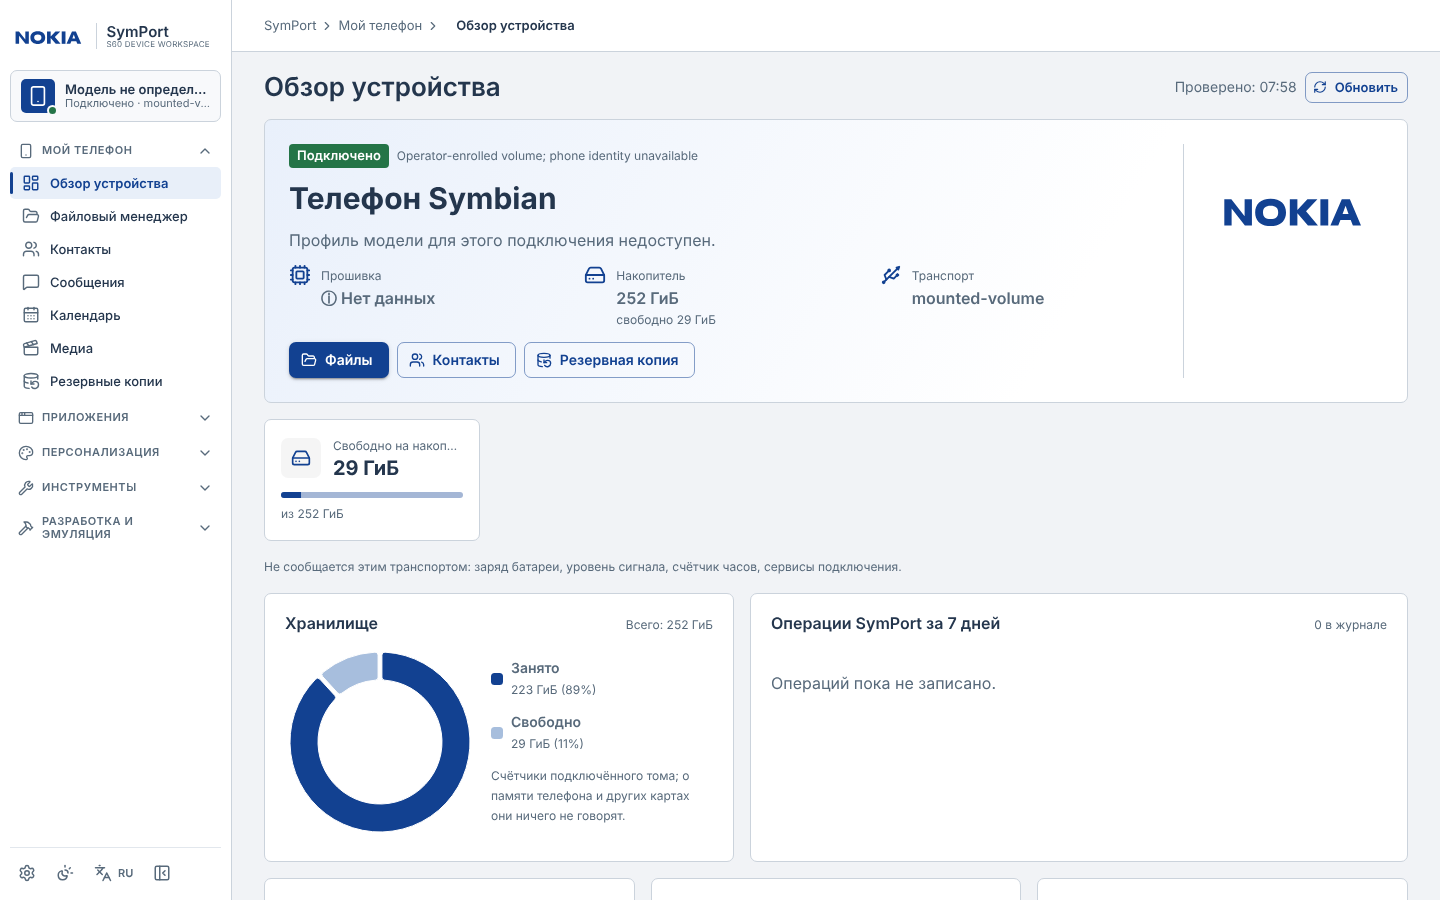
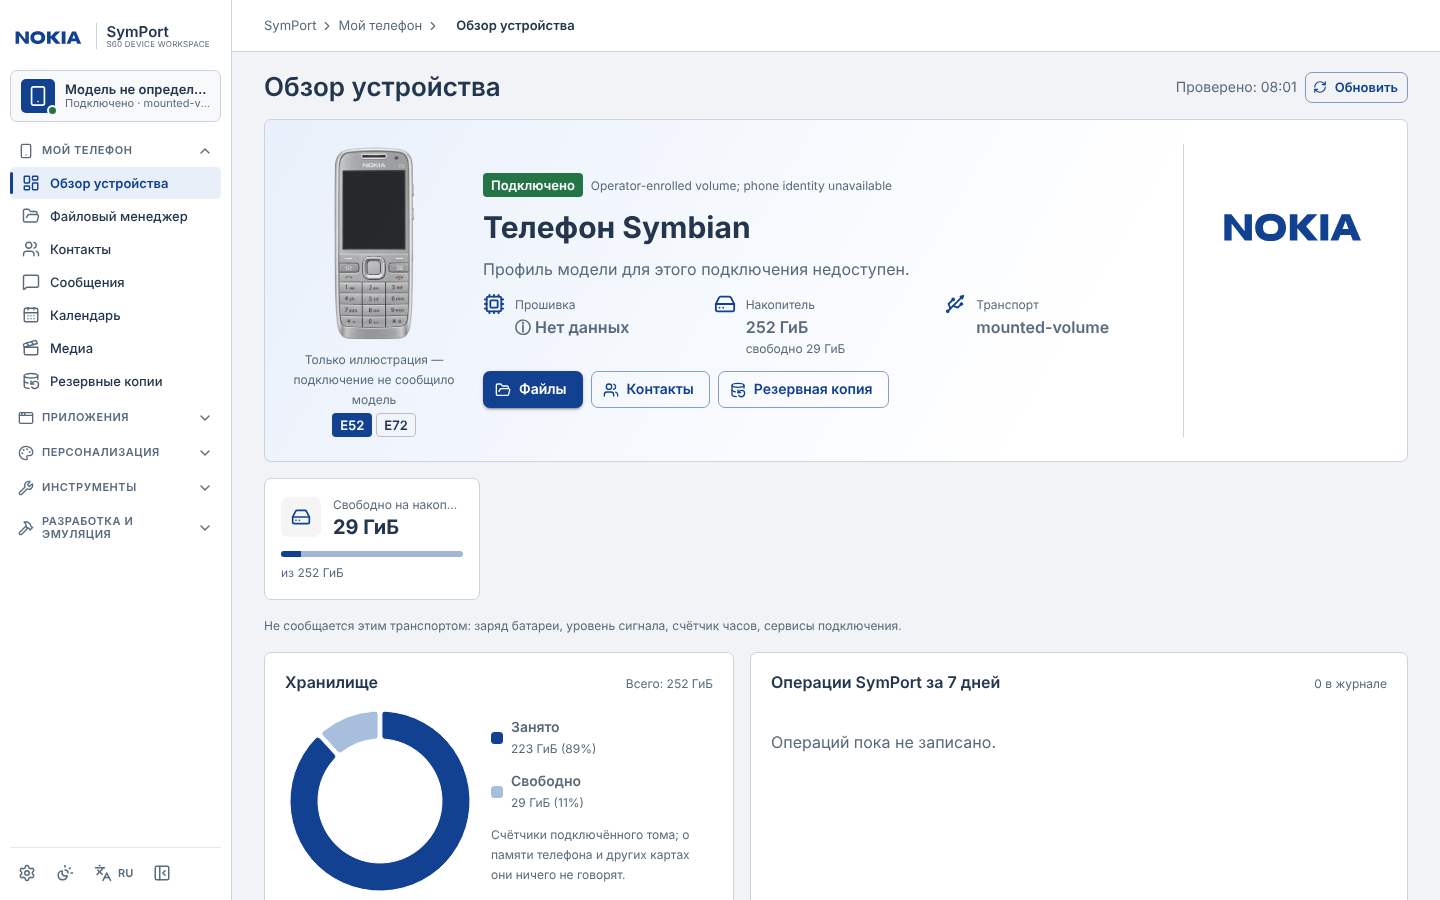
Dashboard: show E52/E72 artwork (identified model, or labelled illustration with E52/E72 choice)
Claude-Session: https://claude.ai/code/session_01SYfqpZdwxCy7Y6WNWdJME4

diff --git a/frontend/src/features/Dashboard.tsx b/frontend/src/features/Dashboard.tsx
@@ -1,4 +1,4 @@
-import { useMemo } from 'react';
+import { useMemo, useState } from 'react';
 import { useQuery } from '@tanstack/react-query';
 import createCache from '@emotion/cache';
 import { CacheProvider } from '@emotion/react';
@@ -96,6 +96,13 @@ function Overview() {
         ? 'disconnected'
         : 'none';
   const profile = selected?.model_profile;
+  // The connection did not identify the model: show the project's artwork, labelled as an illustration only.
+  const [artwork, setArtwork] = useState<'e52' | 'e72'>('e52');
+  const picture = profile
+    ? { src: profile.image, alt: profile.name }
+    : artwork === 'e72'
+      ? { src: '/phones/nokia-e72.png', alt: 'Nokia E72' }
+      : { src: '/phones/nokia-e52-silver.png', alt: 'Nokia E52' };
   const candidates = [
     {
       key: 'battery',
@@ -212,18 +219,51 @@ function Overview() {
               alignItems: 'center',
               gridTemplateColumns: {
                 xs: '1fr',
-                md: profile ? '170px minmax(0,1fr) 200px' : 'minmax(0,1fr) 200px',
+                md: '170px minmax(0,1fr) 200px',
               },
             }}
           >
-            {profile && (
+            <Stack alignItems="center" spacing={0.75}>
               <Box
                 component="img"
-                src={`${base}${profile.image.replace(/^\//, '')}`}
-                alt={profile.name}
-                sx={{ height: 200, maxWidth: '100%', objectFit: 'contain', justifySelf: 'center' }}
+                src={`${base}${picture.src.replace(/^\//, '')}`}
+                alt={
+                  profile
+                    ? picture.alt
+                    : t('Illustration (model not identified)', 'Иллюстрация (модель не определена)')
+                }
+                sx={{
+                  height: 200,
+                  maxWidth: '100%',
+                  objectFit: 'contain',
+                  opacity: profile ? 1 : 0.85,
+                }}
               />
-            )}
+              {!profile && (
+                <Stack alignItems="center" spacing={0.5}>
+                  <Typography variant="caption" color="text.secondary" align="center">
+                    {t(
+                      'Illustration only — the connection did not report a model',
+                      'Только иллюстрация — подключение не сообщило модель',
+                    )}
+                  </Typography>
+                  <Stack direction="row" spacing={0.5}>
+                    {(['e52', 'e72'] as const).map((id) => (
+                      <Chip
+                        key={id}
+                        size="small"
+                        label={id.toUpperCase()}
+                        clickable
+                        color={artwork === id ? 'primary' : 'default'}
+                        variant={artwork === id ? 'filled' : 'outlined'}
+                        onClick={() => setArtwork(id)}
+                        aria-pressed={artwork === id}
+                      />
+                    ))}
+                  </Stack>
+                </Stack>
+              )}
+            </Stack>
             <Stack spacing={1.5} sx={{ minWidth: 0 }}>
               <Stack direction="row" spacing={1} alignItems="center" flexWrap="wrap">
                 <StateChip state={state} />
